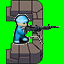
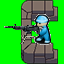
Arrumei algumas coisas

diff --git a/source/GameFeatures/Jogar/Fase1/carrega_unidades.cpp b/source/GameFeatures/Jogar/Fase1/carrega_unidades.cpp
@@ -60,14 +60,25 @@ void setar_tanque(Unidade *tanque, char cor[], string tipo, SDL_Surface *nome){
     tanque->tipo = tipo;
 }
 
+void setar_quartel(Unidade *tanque, char cor[], string tipo, SDL_Surface *nome){
+    tanque->hp = 1000;
+    tanque->atk = 0;
+    tanque->def = 400;
+    tanque->alcance = 0;
+    tanque->ouro = 0;
+    tanque->cor = cor;
+    tanque->nome = nome;
+    tanque->tipo = tipo;
+}
+
 void carrega_china(SDL_Surface *screen,string lado){
 
     string lado1("servidor");
-    char cor[100] = "azul";
+    char cor[100] = "vermelho";
     int k;
     for(int i=0, j=1;i<10;i++,j+=30){
         k=i;
-        string caminho = "source/GameFeatures/Jogar/Fase1/images/unidade_azul_direita1.png";
+        string caminho = "source/GameFeatures/Jogar/Fase1/images/soldado_vermelho.png";
         SDL_Surface *soldado1 = load_Image(caminho, screen);
         Unidade *soldado = new Unidade();
 
@@ -82,11 +93,16 @@ void carrega_china(SDL_Surface *screen,string lado){
 
         caminho = "source/GameFeatures/Jogar/Fase1/images/bryjstudios_cabana_azul.png";
         SDL_Surface *quartel_azul_cabana = load_Image(caminho, screen);
+        Unidade *quartel_a = new Unidade();
+        string quarte = "quartel";
+        setar_quartel(quartel_a,cor,quarte,quartel_azul_cabana);
         BlitImage(screen,quartel_azul_cabana,hexagonos[6][1]->x,hexagonos[6][1]->y);
+        hexagonos[6][1]->unidade = quartel_a;
+        hexagonos[6][1]->contem_unidade = 1;
 
     }
 
-    string caminho = "source/GameFeatures/Jogar/Fase1/images/metralha_azul.png";
+    string caminho = "source/GameFeatures/Jogar/Fase1/images/metralhadora_vermelha_esquerda1.png";
     SDL_Surface *metralhadora1 = load_Image(caminho, screen);
     Unidade *metralhadora = new Unidade();
     string unidadea2 = "metralhadora";
@@ -103,8 +119,8 @@ void carrega_china(SDL_Surface *screen,string lado){
 	SDL_Color white;
 	white.r = white.g = white.b = 255;
 
-	drawCircle(screen, 20, 44, 137, blue);
-	drawCircle(screen, 20, 78, 157, blue);
+	//drawCircle(screen, 20, 44, 137, blue);
+	//drawCircle(screen, 20, 78, 157, blue);
 }
 
 void carrega_eua(SDL_Surface *screen,string lado){
@@ -122,7 +138,7 @@ void carrega_eua(SDL_Surface *screen,string lado){
     }
 
     for (int i=0;i<2;i++){
-        string caminho = "source/GameFeatures/Jogar/Fase1/images/helicoptero_vermelha_esquerda1.png";
+        string caminho = "source/GameFeatures/Jogar/Fase1/images/helicoptero_azul_movimentacao_esqueda.png";
         SDL_Surface *helicoptero1 = load_Image(caminho, screen);
         Unidade *helicoptero = new Unidade();
         string unidade1 = "helicoptero";
@@ -131,7 +147,7 @@ void carrega_eua(SDL_Surface *screen,string lado){
     }
 
     for (int i=0;i<2;i++){
-        string caminho = "source/GameFeatures/Jogar/Fase1/images/metralhadora_vermelha_esquerda1.png";
+        string caminho = "source/GameFeatures/Jogar/Fase1/images/metralha_azul.png";
         SDL_Surface *metrapalhadora1 = load_Image(caminho, screen);
         Unidade *metralhadora = new Unidade();
         string unidade2 = "metralhadora";
@@ -139,7 +155,7 @@ void carrega_eua(SDL_Surface *screen,string lado){
         unidades_vermelhas.push_back(metralhadora);
     }
 
-    string caminho = "source/GameFeatures/Jogar/Fase1/images/tanque_vermelha_esquerda1.png";
+    string caminho = "source/GameFeatures/Jogar/Fase1/images/tanque_azul_esquerda1.png";
     SDL_Surface *tanque1 = load_Image(caminho, screen);
     Unidade *tanque = new Unidade();
     string unidade3 = "tanque";
@@ -170,29 +186,37 @@ void carrega_eua(SDL_Surface *screen,string lado){
     unidades_vermelhas[2]->x = hexagonos[6][12]->x;
     unidades_vermelhas[2]->y = hexagonos[6][12]->y;
 
-    BlitImage(screen,unidades_vermelhas[3]->nome,hexagonos[8][12]->x,hexagonos[8][12]->y);
+    SDL_Rect ds1 = {hexagonos[8][12]->x, hexagonos[8][12]->y, 0, 0};
+    SDL_BlitSurface(unidades_vermelhas[3]->nome, &cutBox,  screen, &ds1);
     hexagonos[8][12]->unidade = unidades_vermelhas[3];
     hexagonos[8][12]->contem_unidade = 1;
     unidades_vermelhas[3]->x = hexagonos[8][12]->x;
     unidades_vermelhas[3]->y = hexagonos[8][12]->y;
 
-    BlitImage(screen,unidades_vermelhas[5]->nome,hexagonos[10][12]->x,hexagonos[10][12]->y);
+    SDL_Rect ds2 = {hexagonos[10][12]->x, hexagonos[10][12]->y, 0, 0};
+    SDL_BlitSurface(unidades_vermelhas[4]->nome, &cutBox,  screen, &ds2);
     hexagonos[10][12]->unidade = unidades_vermelhas[4];
     hexagonos[10][12]->contem_unidade = 1;
     unidades_vermelhas[4]->x = hexagonos[10][12]->x;
     unidades_vermelhas[4]->y = hexagonos[10][12]->y;
 
-    BlitImage(screen,unidades_vermelhas[6]->nome,hexagonos[14][12]->x,hexagonos[14][12]->y);
+    BlitImage(screen,unidades_vermelhas[5]->nome,hexagonos[14][12]->x,hexagonos[14][12]->y);
     hexagonos[14][12]->unidade = unidades_vermelhas[5];
     hexagonos[14][12]->contem_unidade = 1;
     unidades_vermelhas[5]->x = hexagonos[14][12]->x;
     unidades_vermelhas[5]->y = hexagonos[14][12]->y;
 
-    BlitImage(screen,unidades_vermelhas[7]->nome,hexagonos[6][14]->x,hexagonos[6][14]->y);
+    BlitImage(screen,unidades_vermelhas[6]->nome,hexagonos[6][14]->x,hexagonos[6][14]->y);
     hexagonos[6][14]->unidade = unidades_vermelhas[6];
-    hexagonos[14][12]->contem_unidade = 1;
+    hexagonos[6][14]->contem_unidade = 1;
     unidades_vermelhas[6]->x = hexagonos[6][14]->x;
     unidades_vermelhas[6]->y = hexagonos[14][12]->y;
+
+    BlitImage(screen,unidades_vermelhas[7]->nome,hexagonos[7][10]->x,hexagonos[7][10]->y);
+    hexagonos[7][10]->unidade = unidades_vermelhas[7];
+    hexagonos[7][10]->contem_unidade = 1;
+    unidades_vermelhas[7]->x = hexagonos[7][10]->x;
+    unidades_vermelhas[7]->y = hexagonos[7][10]->y;
 
            // cout<<"i: "<<i<<unidades_vermelhas[i]->tipo<<endl;
 

diff --git a/source/features/UpdateObjects/mover_unidade.cpp b/source/features/UpdateObjects/mover_unidade.cpp
@@ -8,51 +8,71 @@
 
 using namespace std;
 
-void mover_soldado(SDL_Surface *screen, int x, int y, int totalElapsedTime, int delay, int lastdt){
-    /*for(int h = unidades_vermelhas[i]->x, w = unidades_vermelhas[i]->y;h>x; h = h-25){
-    cout << "entrei for com h = " << h << endl;
-    cout << "entrei com w = " << w << endl;
-    int posi = unidades_vermelhas[i]->x;
+///REFATORAR ESSE ARQUIVO!!!!!!!!!!!!
+///FAZER ENCADEAMENTO DE IF'S NA MOVIMENTAÇÃO
 
-    for(int j = posi;j>x;j--){
-    SDL_Rect pos = {j, y};
-    unidades_vermelhas[i]->x = j;
-    //SDL_BlitSurface(unidades_vermelhas[i]->nome, NULL, screen, &pos);
-    blit_tela(screen);
-    }*/
+void mover_soldado(SDL_Surface *screen, int x, int y, int totalElapsedTime, int delay, int lastdt){
+
     Unidade *temp;
+
     temp = hexagonos[hex_selecao->i_antes][hex_selecao->j_antes]->unidade;
     hexagonos[hex_selecao->i_antes][hex_selecao->j_antes]->unidade= NULL;
     hexagonos[hex_selecao->i_antes][hex_selecao->j_antes]->contem_unidade= 0;
     SDL_Rect cutBox = {32,0,32,32};
+
+    int tempo_delay;
+
+    if(temp->tipo=="helicoptero"){
+        tempo_delay = 0;
+    }   else{
+            tempo_delay = 100;
+        }
+
     int w = hexagonos[hex_selecao->i_antes][hex_selecao->j_antes]->x;
     int s = hexagonos[hex_selecao->i_antes][hex_selecao->j_antes]->y;
 
     cout << "w:" << w << endl;
     cout << "x:" << x << endl;
 
-    if(w < x){
-        while(w < x){
 
+    while(w!=x || y != s) {
         blit_tela(screen);
         int dt = SDL_GetTicks() - lastdt;
         lastdt = SDL_GetTicks();
-        //cout << "w:" << w << endl;
-        //cout << "x:" << x << endl;
+        cout << "w:" << w << endl;
+        cout << "x:" << x << endl;
         //cout << "dt:" << dt << endl;
         //cout << "lastdt:" << lastdt << endl;
         //cout << "delay:" << delay << endl;
         //cout << "w:" << w << endl;
+                if(w == x && s>y){
+                    if(abs(y - s) == 1)
+                        s = s - 1;
+                    s = s - 2;
+                }
 
-            w = w + 2;
+                else if(w < x){
+                     if(abs(w - x) == 1)
+                        w = w + 1;
+                     w = w + 2;
+                }
 
-            if(s>y){
-                s = s - 2;
-            }
-            if(s<y){
-                s = s + 2;
-                //cout << "w:" << w << endl;
-            }
+                else if (w > x){
+                     if(abs(w -y) == 1)
+                        w = w -1;
+                    w = w - 2;
+                }
+
+                if(s>y){
+                     if(abs(y -s) == 1)
+                        s = s - 1;
+                    s = s - 2;
+                }
+                else if(s<y){
+                    if(abs(y -s) == 1)
+                        s = s + 1;
+                    s = s + 2;
+                }
                 //cout << "w:" << w << endl;
                 totalElapsedTime += dt;
                 //cout << "totalElapsedTime:" << totalElapsedTime << endl;
@@ -78,67 +98,12 @@ void mover_soldado(SDL_Surface *screen, int x, int y, int totalElapsedTime, int 
                     cout<<"WOLOLOLO"<<endl;
                 }
                 SDL_BlitSurface(temp->nome, &cutBox, screen, &dest);
-                SDL_Delay(200);
+
+                SDL_Delay(tempo_delay);
                 SDL_Flip(screen);
             }
-    }
-
-    while(w > x){
-
-        blit_tela(screen);
-
-        int dt = SDL_GetTicks() - lastdt;
-        lastdt = SDL_GetTicks();
-        //cout << "w:" << w << endl;
-        //cout << "x:" << x << endl;
-        //cout << "dt:" << dt << endl;
-        //cout << "lastdt:" << lastdt << endl;
-        //cout << "delay:" << delay << endl;
-        //cout << "w:" << w << endl;
-        if(w>x){
-            w = w - 2;
-
-            if(s>y){
-                s = s - 2;
-            }
-            if(s<y){
-                s = s + 2;
-                //cout << "w:" << w << endl;
-            }
-                //cout << "w:" << w << endl;
-                totalElapsedTime += dt;
-                //cout << "totalElapsedTime:" << totalElapsedTime << endl;
-                if(totalElapsedTime >= delay) {
-                    totalElapsedTime -= delay;
-                    //cout << "cutbotx:  " << cutBox.x << endl;
-                    if(cutBox.x == 0){
-                        //cout << "Entrei aqui" << endl;
-                        cutBox.x = 32;
-                    }
-                    else {
-                        cutBox.x -= 32;
-                    }
-                }
-
-                SDL_Rect dest = {(Sint16)w, (Sint16)s, 0, 0};
-               /* cout<<"hex_selecaoantes_i= "<<hex_selecao->i_antes<<endl;
-                cout<<"hex_selecaoantes_j= "<<hex_selecao->j_antes<<endl;
-                cout<<"hex_selecao_i= "<<hex_selecao->i<<endl;
-                cout<<"hex_selecao_j= "<<hex_selecao->j<<endl;*/
-                //hexagonos[hex_selecao->i][hex_selecao->j]->unidade->nome
-                if(hexagonos[hex_selecao->i_antes][hex_selecao->j_antes]->contem_unidade){
-                    cout<<"WOLOLOLO"<<endl;
-                }
-                SDL_BlitSurface(temp->nome, &cutBox, screen, &dest);
-                SDL_Delay(200);
-                SDL_Flip(screen);
 
 
-
-
-
-        }
-    }
 
     //unidades_vermelhas[i]->x = x;
     //unidades_vermelhas[i]->y = y;

diff --git a/source/GameFeatures/Jogar/Fase1/fase1.cpp b/source/GameFeatures/Jogar/Fase1/fase1.cpp
@@ -28,17 +28,19 @@ void fase1(SDL_Surface *screen){
             if(verifica_hexagono(vetor->x,vetor->y)){
             cout<<"lets go"<<endl;
             //if(compara_selecao(unidades_vermelhas[0]->x, unidades_vermelhas[0]->x+32, vetor->x, unidades_vermelhas[0]->y, unidades_vermelhas[0]->y+32, vetor->y)){
-            hex_selecao->i_antes = hex_selecao->i;
-            hex_selecao->j_antes = hex_selecao->j;
-                    while(1){
-                        vetor = get_Input();
-                        if(vetor->click == 1){
-                            verifica_hexagono(vetor->x,vetor->y);
-                            mover_soldado(screen, hexagonos[hex_selecao->i][hex_selecao->j]->x,hexagonos[hex_selecao->i][hex_selecao->j]->y, totalElapsedTime, delay, lastdt);
-                            break;
+            if(hexagonos[hex_selecao->i][hex_selecao->j]->contem_unidade == 1){
+                hex_selecao->i_antes = hex_selecao->i;
+                hex_selecao->j_antes = hex_selecao->j;
+                        while(1){
+                            vetor = get_Input();
+                            if(vetor->click == 1){
+                                verifica_hexagono(vetor->x,vetor->y);
+                                mover_soldado(screen, hexagonos[hex_selecao->i][hex_selecao->j]->x,hexagonos[hex_selecao->i][hex_selecao->j]->y, totalElapsedTime, delay, lastdt);
+                                break;
+                            }
                         }
-                    }
             }
+        }
                 //}
             /*
             if(compara_selecao(unidades_vermelhas[1]->x, unidades_vermelhas[1]->x+32, vetor->x, unidades_vermelhas[1]->y, unidades_vermelhas[1]->y+32, vetor->y)){

diff --git a/source/GameFeatures/Jogar/Fase1/carregar_fase1.cpp b/source/GameFeatures/Jogar/Fase1/carregar_fase1.cpp
@@ -39,9 +39,9 @@ void mapeia_hexagono(SDL_Surface *screen){
             hexagon->indice = contador;
             hexagon->contem_unidade=0;
             if(contador==132){
-                string caminho = "source/GameFeatures/Jogar/Fase1/images/unidade_azul_direita1.png";
-                SDL_Surface *soldado1 = load_Image(caminho, screen);
-                BlitImage(screen,soldado1,ie,je);
+                //string caminho = "source/GameFeatures/Jogar/Fase1/images/unidade_azul_direita1.png";
+                //SDL_Surface *soldado1 = load_Image(caminho, screen);
+               // BlitImage(screen,soldado1,ie,je);
              }
 
             hex_temp.push_back(hexagon);

diff --git a/source/GameFeatures/blit_tela.cpp b/source/GameFeatures/blit_tela.cpp
@@ -19,7 +19,7 @@ void blit_tela(SDL_Surface *screen){
         for(int j=0;j<hexagonos[i].size();j++){
             if(hexagonos[i][j]->contem_unidade==1){
                 //cout<<"foi, i: "<<i<<"j: "<<j<<endl;
-                if(hexagonos[i][j]->unidade->tipo == "soldado"){
+                if(hexagonos[i][j]->unidade->tipo == "soldado" || hexagonos[i][j]->unidade->tipo == "helicoptero"){
                     SDL_Rect cutBox = {32,0,32,32};
                     SDL_Rect dst = {hexagonos[i][j]->x, hexagonos[i][j]->y, 0, 0};
                     //cout << "fiz isso i " << i << endl;

diff --git a/include/gamefeatures.h b/include/gamefeatures.h
@@ -26,7 +26,7 @@ typedef struct _Hexagonos{
 	int x;
 	int y;
 	int indice;
-	int contem_unidade;
+	bool contem_unidade : 1;
 	Unidade *unidade;
 	int centro_x;
 	int centro_y;
